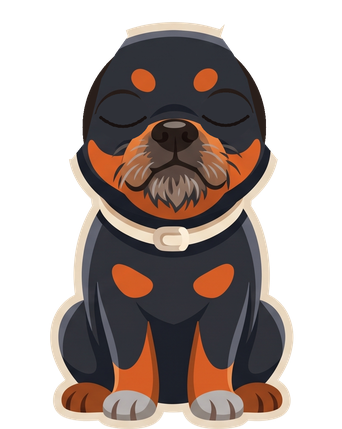
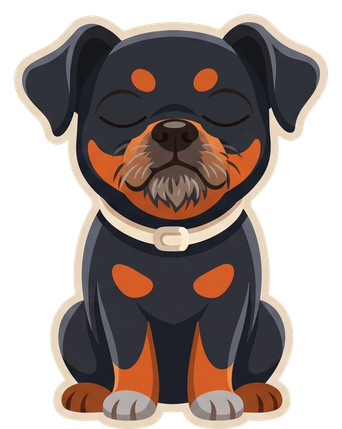
Perretes enteros, sin orejas recortadas
- Las orejas ya no se separan ni se mueven: al recortarlas y rellenar lo de debajo se veían los cortes. Cada perro es la ilustración entera; siguen el parpadeo, la lengua de Blitzen y la cola de Black.
- build_dogs.py genera también solo los párpados, para que la web parpadee sin duplicar los bordes del perro.
- web_shots.py: el saludo de Inicio de las capturas de la web dice «Blitzen».

Changed region(s): [[0.0292, 0.0303, 0.3801, 0.3636], [0.6433, 0.0303, 0.9649, 0.3636]]

diff --git a/tools/build_dogs.py b/tools/build_dogs.py
@@ -6,8 +6,8 @@ Salida: assets/dogs/*.png
 * La silueta de cada perro es lo que encierra su contorno crema de pegatina (el fondo de la ilustracion es casi negro).
 * Cada perro sale con los ojos abiertos y con los ojos cerrados (los parpados se pintan del color del pelo de alrededor,
   con la linea del ojo cerrado), para parpadear y para dormir.
-* Las orejas salen en capas aparte, para que se muevan; debajo, la cabeza y el cuerpo se rellenan con su pelo.
-* La lengua de Blitzen sale aparte, para jadear y relamerse.
+* Cada perro es la ilustracion entera, sin cortes: las orejas no se separan (al moverlas se veian los cortes y el pelo de
+  relleno de debajo). Solo salen aparte los parpados (para la web) y la lengua de Blitzen, para jadear y relamerse.
 * De noche: los dos acurrucados, recortados de `perretesDurmiendo.jpg` por su contorno (las z, las rayitas y el logotipo de
   la ilustracion quedan fuera: las z se animan en la app).
 * Todas las capas de un perro comparten el mismo lienzo (mismo tamano y origen): se pintan una encima de otra sin recolocar.
@@ -26,45 +26,18 @@ SOURCE = ROOT / "docs" / "art" / "basePerretes.jpg"
 SLEEPING = ROOT / "docs" / "art" / "perretesDurmiendo.jpg"
 OUT = ROOT / "assets" / "dogs"
 STORE = 0.35                # las capas se guardan al 35 % del original: de sobra para el tamano del cielo, incluso con pantallas HiDPI
-MARGIN = 40                 # margen del lienzo (px del original) para que las orejas y la cabeza puedan moverse sin cortarse
+MARGIN = 40                 # margen del lienzo (px del original) alrededor de cada perro
 
 # Coordenadas en pixeles de la ilustracion original (2400 x 1792).
 EYES = {
     "blitzen": [(617, 438, 82, 72), (893, 438, 82, 72)],
     "black": [(1652, 870, 68, 60), (1945, 867, 68, 60)],
 }
-BLITZEN_AXIS = 762          # el eje de simetria de la cara de Blitzen
-UNDER_EAR_MARGIN = 60      # bajo las orejas de Blitzen hay pelo en todo el perro salvo esta franja junto al borde: al girar no se abre rendija
-_BLITZEN_LEFT_EAR = [(575, 120), (420, 130), (300, 170), (200, 240), (140, 380), (100, 560), (60, 700), (70, 860), (100, 980),
-                     (150, 1080), (250, 1150), (380, 1140), (520, 1085), (575, 990), (505, 900), (452, 800), (432, 660),
-                     (442, 520), (470, 380), (575, 260)]
-BLITZEN_EARS = {
-    "izq": _BLITZEN_LEFT_EAR,
-    "der": [(2 * BLITZEN_AXIS - x, y) for x, y in _BLITZEN_LEFT_EAR],
-}
 BLITZEN_TONGUE = (700, 690, 825, 795)        # la caja de la lengua
-BLACK_HEAD = (1798, 900, 262, 268)            # elipse de la cabeza de Black (centro y radios)
-BLACK_EARS = {
-    "izq": [(1318, 760), (1340, 690), (1400, 630), (1480, 570), (1560, 555), (1645, 580), (1665, 640), (1630, 690), (1590, 760),
-            (1565, 860), (1545, 940), (1505, 990), (1440, 1000), (1385, 965), (1335, 880)],
-    "der": [(2278, 760), (2256, 690), (2196, 630), (2116, 570), (2036, 555), (1951, 580), (1931, 640), (1966, 690), (2006, 760),
-            (2031, 860), (2051, 940), (2091, 990), (2156, 1000), (2211, 965), (2261, 880)],
-}
 
 
 def grid(shape: tuple[int, ...]) -> tuple[np.ndarray, np.ndarray]:
     return np.mgrid[0:shape[0], 0:shape[1]]
-
-
-def ellipse(shape: tuple[int, ...], cx: float, cy: float, rx: float, ry: float) -> np.ndarray:
-    yy, xx = grid(shape)
-    return ((xx - cx) / rx) ** 2 + ((yy - cy) / ry) ** 2 <= 1.0
-
-
-def polygon(shape: tuple[int, ...], points: list[tuple[float, float]]) -> np.ndarray:
-    mask = Image.new("L", (shape[1], shape[0]), 0)
-    ImageDraw.Draw(mask).polygon(points, fill=255)
-    return np.asarray(mask) > 0
 
 
 def silhouettes(rgb: np.ndarray) -> list[np.ndarray]:
@@ -130,23 +103,6 @@ def close_eyes(layer: np.ndarray, rgb: np.ndarray, eyes: list[tuple[float, float
     return np.asarray(closed).copy()
 
 
-def split_ears(layer: np.ndarray, ears: dict[str, list[tuple[float, float]]], under: np.ndarray, fur: tuple[int, int, int]
-               ) -> tuple[np.ndarray, dict[str, np.ndarray]]:
-    """Separa las orejas: cada una a su capa; debajo, lo que es cabeza o cuerpo (`under`) se rellena con el pelo y el resto
-    queda transparente (asi, al moverse, no asoma una segunda oreja)."""
-    base = layer.copy()
-    pieces = {}
-    for side, poly in ears.items():
-        area = polygon(layer.shape, poly)
-        piece = layer.copy()
-        piece[~area, 3] = 0
-        pieces[side] = piece
-        base[area & under, :3] = fur
-        base[area & under, 3] = 255
-        base[area & ~under, 3] = 0
-    return base, pieces
-
-
 def crop_box(mask: np.ndarray) -> tuple[int, int, int, int]:
     ys, xs = np.nonzero(mask)
     return xs.min() - MARGIN, ys.min() - MARGIN, xs.max() + MARGIN + 1, ys.max() + 1
@@ -165,46 +121,31 @@ def main() -> None:
         old.unlink()
     rgb = np.asarray(Image.open(source).convert("RGB")).astype(np.float32)
     shape = rgb.shape
-    yy, xx = grid(shape)
+    yy, _ = grid(shape)
     blitzen_mask, black_mask = silhouettes(rgb)
 
-    # ---------------------------------------------------------------- Blitzen
-    box = crop_box(blitzen_mask)
-    full = cutout(rgb, blitzen_mask).astype(np.uint8)
-    asleep_full = close_eyes(full, rgb, EYES["blitzen"])
-    under = ndi.distance_transform_edt(blitzen_mask) > UNDER_EAR_MARGIN   # todo el perro salvo la franja del borde exterior
-    fur = ring_color(rgb, 762, 980, 90, 60)
-    tongue_box = np.zeros(shape[:2], bool)
-    x0, y0, x1, y1 = BLITZEN_TONGUE
-    tongue_box[y0:y1, x0:x1] = True
-    r, g, b = rgb[..., 0], rgb[..., 1], rgb[..., 2]
-    pink = tongue_box & (r > 180) & (r - g > 60) & (b > 100)
-    tongue = ndi.binary_dilation(ndi.binary_fill_holes(pink), iterations=7) & tongue_box & (pink | (rgb.mean(axis=2) < 110))
-    tongue = ndi.binary_fill_holes(tongue) & (yy > y0 + 12)
-    tongue_layer = full.copy()
-    tongue_layer[~tongue, 3] = 0
-    save(tongue_layer, box, "blitzen-lengua.png")
-    for suffix, layer in (("", full), ("-dormido", asleep_full)):
-        base, ears = split_ears(layer, BLITZEN_EARS, under, fur)
-        save(base, box, f"blitzen{suffix}.png")
-        if not suffix:
-            for side, piece in ears.items():
-                save(piece, box, f"blitzen-oreja-{side}.png")
-    print(f"blitzen: lienzo {tuple(int(v) for v in box)}")
-
-    # ---------------------------------------------------------------- Black
-    box = crop_box(black_mask)
-    full = cutout(rgb, black_mask).astype(np.uint8)
-    asleep_full = close_eyes(full, rgb, EYES["black"])
-    head = ellipse(shape, *BLACK_HEAD)
-    fur = ring_color(rgb, BLACK_HEAD[0], BLACK_HEAD[1] - 120, 120, 90)
-    for suffix, layer in (("", full), ("-dormido", asleep_full)):
-        base, ears = split_ears(layer, BLACK_EARS, head, fur)
-        save(base, box, f"black{suffix}.png")
-        if not suffix:
-            for side, piece in ears.items():
-                save(piece, box, f"black-oreja-{side}.png")
-    print(f"black: lienzo {tuple(int(v) for v in box)}")
+    # ---------------------------------------------------------------- Blitzen y Black, enteros
+    for name, mask in (("blitzen", blitzen_mask), ("black", black_mask)):
+        box = crop_box(mask)
+        full = cutout(rgb, mask).astype(np.uint8)
+        asleep = close_eyes(full, rgb, EYES[name])
+        lids = asleep.copy()                                  # solo los parpados: lo que cambia al cerrar los ojos
+        lids[(asleep == full).all(axis=2), 3] = 0
+        save(full, box, f"{name}.png")
+        save(asleep, box, f"{name}-dormido.png")
+        save(lids, box, f"{name}-parpados.png")
+        if name == "blitzen":
+            tongue_box = np.zeros(shape[:2], bool)
+            x0, y0, x1, y1 = BLITZEN_TONGUE
+            tongue_box[y0:y1, x0:x1] = True
+            r, g, b = rgb[..., 0], rgb[..., 1], rgb[..., 2]
+            pink = tongue_box & (r > 180) & (r - g > 60) & (b > 100)
+            tongue = ndi.binary_dilation(ndi.binary_fill_holes(pink), iterations=7) & tongue_box & (pink | (rgb.mean(axis=2) < 110))
+            tongue = ndi.binary_fill_holes(tongue) & (yy > y0 + 12)
+            layer = full.copy()
+            layer[~tongue, 3] = 0
+            save(layer, box, "blitzen-lengua.png")
+        print(f"{name}: lienzo {tuple(int(v) for v in box)}")
 
     # ---------------------------------------------------------------- los dos durmiendo
     rgb = np.asarray(Image.open(SLEEPING).convert("RGB")).astype(np.float32)

diff --git a/ui/widgets/dogs.py b/ui/widgets/dogs.py
@@ -1,11 +1,11 @@
 """Blitzen y Black en el cielo de Inicio, sacados tal cual de su ilustracion (`docs/art/basePerretes.jpg`).
 
 `tools/build_dogs.py` recorta a cada perro por su contorno crema de pegatina y guarda en `assets/dogs/` sus capas: el perro
-con los ojos abiertos y con los ojos cerrados, las orejas aparte, la lengua de Blitzen y los dos durmiendo. Aqui se animan:
+con los ojos abiertos y con los ojos cerrados, la lengua de Blitzen y los dos durmiendo. Aqui se animan:
 
-* De dia, sentados y tal cual su ilustracion: solo se mueven sus partes. Parpadean y mueven las orejas; Blitzen jadea con
-  la lengua y de vez en cuando se relame; Black menea la cola (dibujada con el mismo estilo de pegatina, porque la
-  ilustracion no la ensena).
+* De dia, sentados y tal cual su ilustracion, enteros (sin cortes: las orejas no se mueven porque al separarlas se veian los
+  cortes). Parpadean; Blitzen jadea con la lengua y de vez en cuando se relame; Black menea la cola (dibujada con el mismo
+  estilo de pegatina, porque la ilustracion no la ensena).
 * De noche, acurrucados, tal cual los dibuja su segunda ilustracion (`docs/art/perretesDurmiendo.jpg`), con unas z que
   salen de cada uno.
 
@@ -56,13 +56,6 @@ def smooth(points: list[Point], closed: bool = True, tension: float = 1.0) -> QP
 
 
 @dataclass(frozen=True, slots=True)
-class Ear:
-    layer: str
-    pivot: Point            # donde nace la oreja (gira desde ahi)
-    side: int               # -1 izquierda, 1 derecha: las dos se abren a la vez
-
-
-@dataclass(frozen=True, slots=True)
 class Tail:
     anchor: Point           # donde nace, escondida detras del cuerpo
     shape: tuple[Point, ...]    # el contorno, relativo al nacimiento
@@ -74,19 +67,16 @@ class Tail:
 class Dog:
     name: str
     origin: Point           # esquina del lienzo de sus capas, en la ilustracion
-    ears: tuple[Ear, ...]
     tail: Tail | None = None
     tongue: Point | None = None     # donde nace la lengua (arriba, en la boca)
 
 
 BLITZEN = Dog(
     "blitzen", (166, 86),
-    (Ear("blitzen-oreja-izq", (500, 230), -1), Ear("blitzen-oreja-der", (1024, 230), 1)),
     tongue=(762, 703),
 )
 BLACK = Dog(
     "black", (1301, 537),
-    (Ear("black-oreja-izq", (1600, 650), -1), Ear("black-oreja-der", (1996, 650), 1)),
     Tail((2090, 1600),
          ((0, 0), (40, -50), (88, -102), (122, -112), (126, -78), (90, -24), (40, 34)),
          (((30, -30), (70, -72)),),
@@ -157,44 +147,35 @@ def _paint_tail(p: QPainter, tail: Tail, angle: float) -> None:
     p.restore()
 
 
-def _compose(dog: Dog, scale: float, closed: bool, ear_angle: float, tongue: tuple[float, float] = (1.0, 0.0)) -> QImage:
-    """El perro de esta imagen: su capa (ojos abiertos o cerrados), la lengua (estirada `tongue[0]` veces y girada
-    `tongue[1]` grados desde la boca) y, encima, las orejas giradas."""
+def _compose(dog: Dog, scale: float, closed: bool, tongue: tuple[float, float] = (1.0, 0.0)) -> QImage:
+    """El perro de esta imagen: su capa (ojos abiertos o cerrados) y, si se mueve, la lengua (estirada `tongue[0]` veces y
+    girada `tongue[1]` grados desde la boca)."""
     base = _layer(dog.name + ("-dormido" if closed else ""), scale)
+    if dog.tongue is None or (tongue[0] <= 1.001 and abs(tongue[1]) <= 0.1):
+        return base                                         # quieto: la ilustracion tal cual
     frame = QImage(base.size(), QImage.Format.Format_ARGB32_Premultiplied)
     frame.fill(0)
     q = QPainter(frame)
     q.setRenderHint(QPainter.RenderHint.SmoothPixmapTransform)
     q.setRenderHint(QPainter.RenderHint.Antialiasing)
     q.drawImage(0, 0, base)
-    if dog.tongue is not None and (tongue[0] > 1.001 or abs(tongue[1]) > 0.1):
-        tx, ty = (dog.tongue[0] - dog.origin[0]) * scale, (dog.tongue[1] - dog.origin[1]) * scale
-        q.save()
-        q.translate(tx, ty)
-        q.rotate(tongue[1])
-        q.scale(1.0 + (tongue[0] - 1.0) * 0.25, tongue[0])
-        q.translate(-tx, -ty)
-        q.drawImage(0, 0, _layer(f"{dog.name}-lengua", scale))
-        q.restore()
-    for ear in dog.ears:
-        px, py = (ear.pivot[0] - dog.origin[0]) * scale, (ear.pivot[1] - dog.origin[1]) * scale
-        q.save()
-        q.translate(px, py)
-        q.rotate(ear.side * ear_angle)
-        q.translate(-px, -py)
-        q.drawImage(0, 0, _layer(ear.layer, scale))
-        q.restore()
+    tx, ty = (dog.tongue[0] - dog.origin[0]) * scale, (dog.tongue[1] - dog.origin[1]) * scale
+    q.translate(tx, ty)
+    q.rotate(tongue[1])
+    q.scale(1.0 + (tongue[0] - 1.0) * 0.25, tongue[0])
+    q.translate(-tx, -ty)
+    q.drawImage(0, 0, _layer(f"{dog.name}-lengua", scale))
     q.end()
     return frame
 
 
-def _paint_sitting(p: QPainter, dog: Dog, *, closed: bool, ear_angle: float, tail_angle: float = 0.0,
+def _paint_sitting(p: QPainter, dog: Dog, *, closed: bool, tail_angle: float = 0.0,
                    tongue: tuple[float, float] = (1.0, 0.0)) -> None:
-    """Un perro sentado, tal cual su ilustracion: solo se mueven sus partes (parpados, orejas, lengua y cola)."""
+    """Un perro sentado, tal cual su ilustracion: solo se mueven sus parpados, la lengua y la cola."""
     if dog.tail is not None:
         _paint_tail(p, dog.tail, tail_angle)
     scale = min(_device_scale(p), STORE * 2)                # nunca mas grande que el doble de lo guardado
-    image = _compose(dog, scale, closed, ear_angle, tongue)
+    image = _compose(dog, scale, closed, tongue)
     p.save()
     p.setRenderHint(QPainter.RenderHint.SmoothPixmapTransform)
     p.drawImage(QRectF(dog.origin[0], dog.origin[1], image.width() / scale, image.height() / scale), image)
@@ -254,16 +235,12 @@ def _place(p: QPainter, ground: float, center_x: float) -> None:
 
 
 def paint_day(p: QPainter, dark: bool, t: float, ground: float, center_x: float) -> None:
-    """Blitzen y Black sentados, de cara a quien mira: parpadean y mueven las orejas; Blitzen jadea y se relame, y Black
-    menea la cola."""
+    """Blitzen y Black sentados, de cara a quien mira: parpadean; Blitzen jadea y se relame, y Black menea la cola."""
     p.save()
     p.setRenderHint(QPainter.RenderHint.Antialiasing)
     _place(p, ground, center_x)
-    _paint_sitting(p, BLITZEN, closed=_blink(t, 0.0) > 0.5,
-                   ear_angle=math.sin(t * 1.3) * 2.2, tongue=_tongue(t))
-    ears = math.sin(t * 1.1 + 0.7) * 2.5 + max(0.0, math.sin(t * 0.7 + 2.0)) ** 8 * 7.0
-    _paint_sitting(p, BLACK, closed=_blink(t, 1.7) > 0.5, ear_angle=ears,
-                   tail_angle=_wag(t, 8.5, 1.5, 20.0))
+    _paint_sitting(p, BLITZEN, closed=_blink(t, 0.0) > 0.5, tongue=_tongue(t))
+    _paint_sitting(p, BLACK, closed=_blink(t, 1.7) > 0.5, tail_angle=_wag(t, 8.5, 1.5, 20.0))
     p.restore()
 
 

diff --git a/tools/web_dogs.py b/tools/web_dogs.py
@@ -2,7 +2,7 @@
 
 Uso:  python tools/web_dogs.py RUTA/kreix-web/assets/perretes
 Salida: una imagen WebP por capa, todas del mismo tamano y sobre el mismo lienzo (la ilustracion basePerretes, de x=130 a 2330
-y de y=60 a 1790, al 35 %): se apilan en la web sin recolocarlas y cada parte gira desde su punto (ver PIVOTS).
+y de y=60 a 1790, al 35 %): se apilan en la web sin recolocarlas (la lengua y la cola se mueven desde el punto que se imprime).
 """
 from __future__ import annotations
 
@@ -25,14 +25,10 @@ SCALE = dogs.STORE
 # (archivo de la web, capa de la app, perro)
 LAYERS = (
     ("blitzen", "blitzen", dogs.BLITZEN),
-    ("blitzen-ojos", "blitzen-dormido", dogs.BLITZEN),
+    ("blitzen-ojos", "blitzen-parpados", dogs.BLITZEN),     # solo los parpados: encima del perro, sin duplicar sus bordes
     ("blitzen-lengua", "blitzen-lengua", dogs.BLITZEN),
-    ("blitzen-oreja-izq", "blitzen-oreja-izq", dogs.BLITZEN),
-    ("blitzen-oreja-der", "blitzen-oreja-der", dogs.BLITZEN),
     ("black", "black", dogs.BLACK),
-    ("black-ojos", "black-dormido", dogs.BLACK),
-    ("black-oreja-izq", "black-oreja-izq", dogs.BLACK),
-    ("black-oreja-der", "black-oreja-der", dogs.BLACK),
+    ("black-ojos", "black-parpados", dogs.BLACK),
 )
 
 
@@ -64,9 +60,7 @@ def main() -> None:
 
     w, h = CANVAS[2] - CANVAS[0], CANVAS[3] - CANVAS[1]
     print(f"lienzo {tail.width()} x {tail.height()}")
-    for label, (x, y) in (("blitzen oreja izq", dogs.BLITZEN.ears[0].pivot), ("blitzen oreja der", dogs.BLITZEN.ears[1].pivot),
-                          ("blitzen lengua", dogs.BLITZEN.tongue), ("black oreja izq", dogs.BLACK.ears[0].pivot),
-                          ("black oreja der", dogs.BLACK.ears[1].pivot), ("black cola", dogs.BLACK.tail.anchor)):
+    for label, (x, y) in (("blitzen lengua", dogs.BLITZEN.tongue), ("black cola", dogs.BLACK.tail.anchor)):
         print(f"{label}: transform-origin {100 * (x - CANVAS[0]) / w:.2f}% {100 * (y - CANVAS[1]) / h:.2f}%")
 
 

diff --git a/tools/web_shots.py b/tools/web_shots.py
@@ -29,6 +29,7 @@ import demo_data  # noqa: E402
 from main import build_window  # noqa: E402
 
 SIZE = (1280, 860)
+NAME = "Blitzen"                                             # el nombre del saludo de Inicio
 NIGHT = datetime.now().replace(hour=22, minute=54, second=0, microsecond=0)   # hoy (el dia de los datos importados), de noche
 LANGUAGES = {"es": "", "ca": "ca", "en": "en"}
 # (nombre del archivo, pagina, recorte para movil: x, y, ancho, alto)
@@ -52,7 +53,7 @@ def shoot(app: QApplication, lang: str, out: Path) -> None:
     window = build_window(db, "demo")
     window.clock = window.dashboard.clock = lambda: NIGHT
     window.show()
-    window._apply_user_name("Ana", announce=False)             # nombre inventado para el saludo de Inicio
+    window._apply_user_name(NAME, announce=False)
     window.resize(*SIZE)
 
     window.navigate(window.IMPORT)                               # importar los extractos de demostracion: Importar

diff --git a/tests/test_dogs.py b/tests/test_dogs.py
@@ -28,9 +28,8 @@ def test_every_pose_draws_something_at_any_moment_in_both_themes(qapp):
                 assert any(image.pixelColor(x, y).alpha() > 200 for x in range(0, 400, 7) for y in range(0, 300, 7)), (dark, kind, t)
 
 
-@pytest.mark.parametrize("name", ["blitzen", "blitzen-dormido", "blitzen-oreja-izq", "blitzen-oreja-der",
-                                  "blitzen-lengua", "black", "black-dormido", "black-oreja-izq",
-                                  "black-oreja-der", "durmiendo"])
+@pytest.mark.parametrize("name", ["blitzen", "blitzen-dormido", "blitzen-parpados", "blitzen-lengua",
+                                  "black", "black-dormido", "black-parpados", "durmiendo"])
 def test_every_layer_of_the_illustration_ships_with_a_transparent_background(qapp, name):
     image = dogs._layer(name, dogs.STORE)
     assert not image.isNull() and image.hasAlphaChannel()

diff --git a/tools/dogs_preview.py b/tools/dogs_preview.py
@@ -25,7 +25,7 @@ MOMENTS = (                                  # (rotulo, de dia o de noche, t)
     ("reposo", "day", 0.0),
     ("parpadeo", "day", 4.32),
     ("se relame", "day", 7.45),
-    ("orejas y cola", "day", 9.6),
+    ("cola", "day", 9.6),
     ("noche", "night", 1.0),
     ("noche, z", "night", 3.0),
 )
